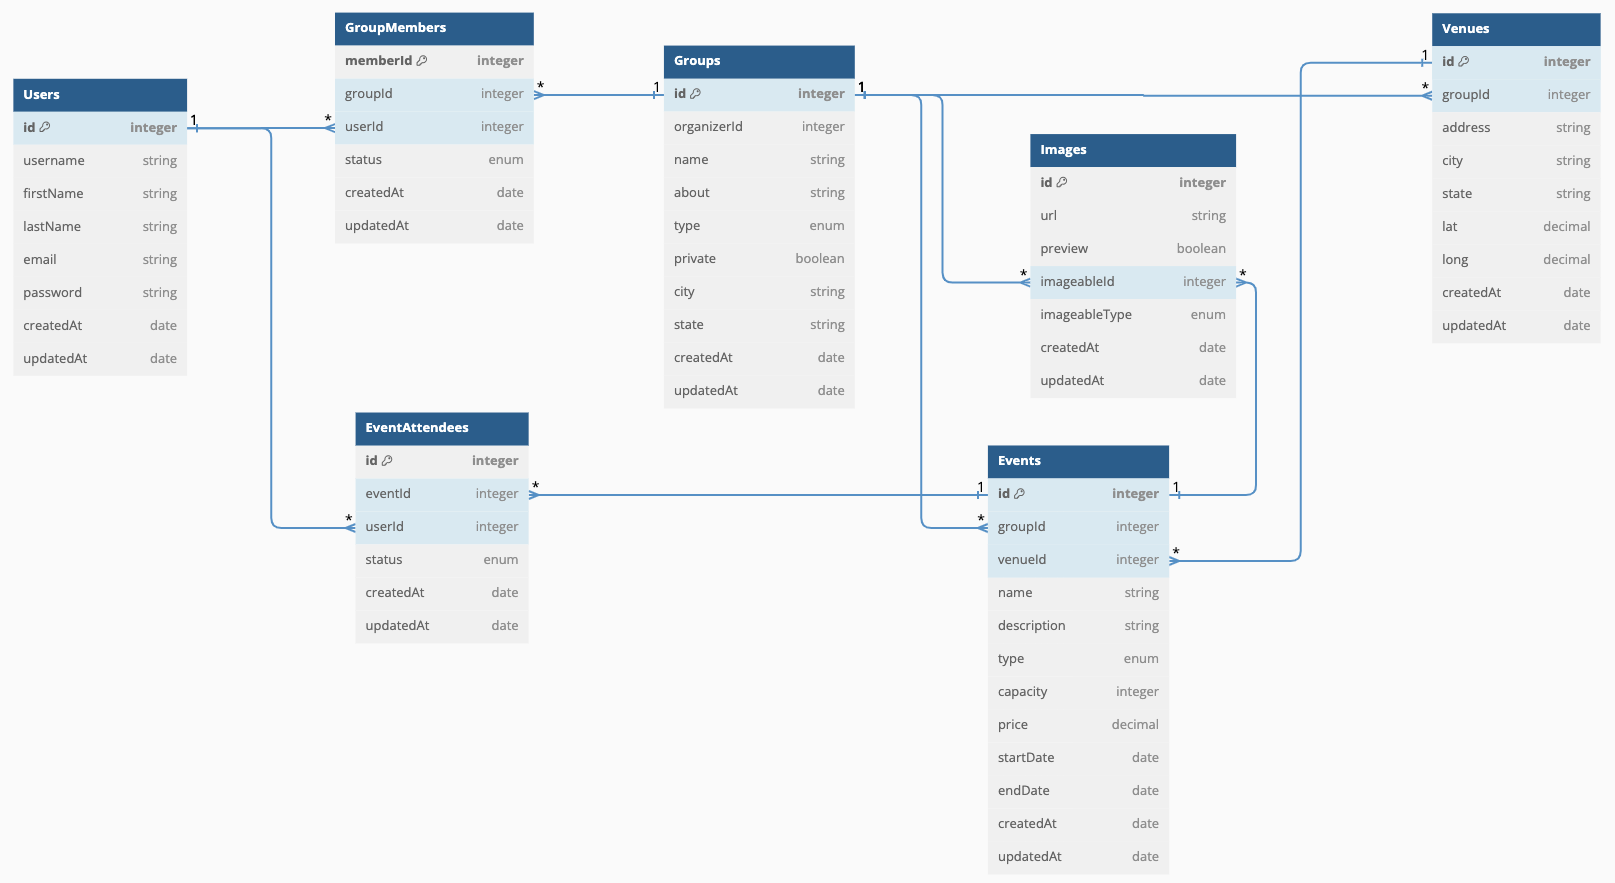
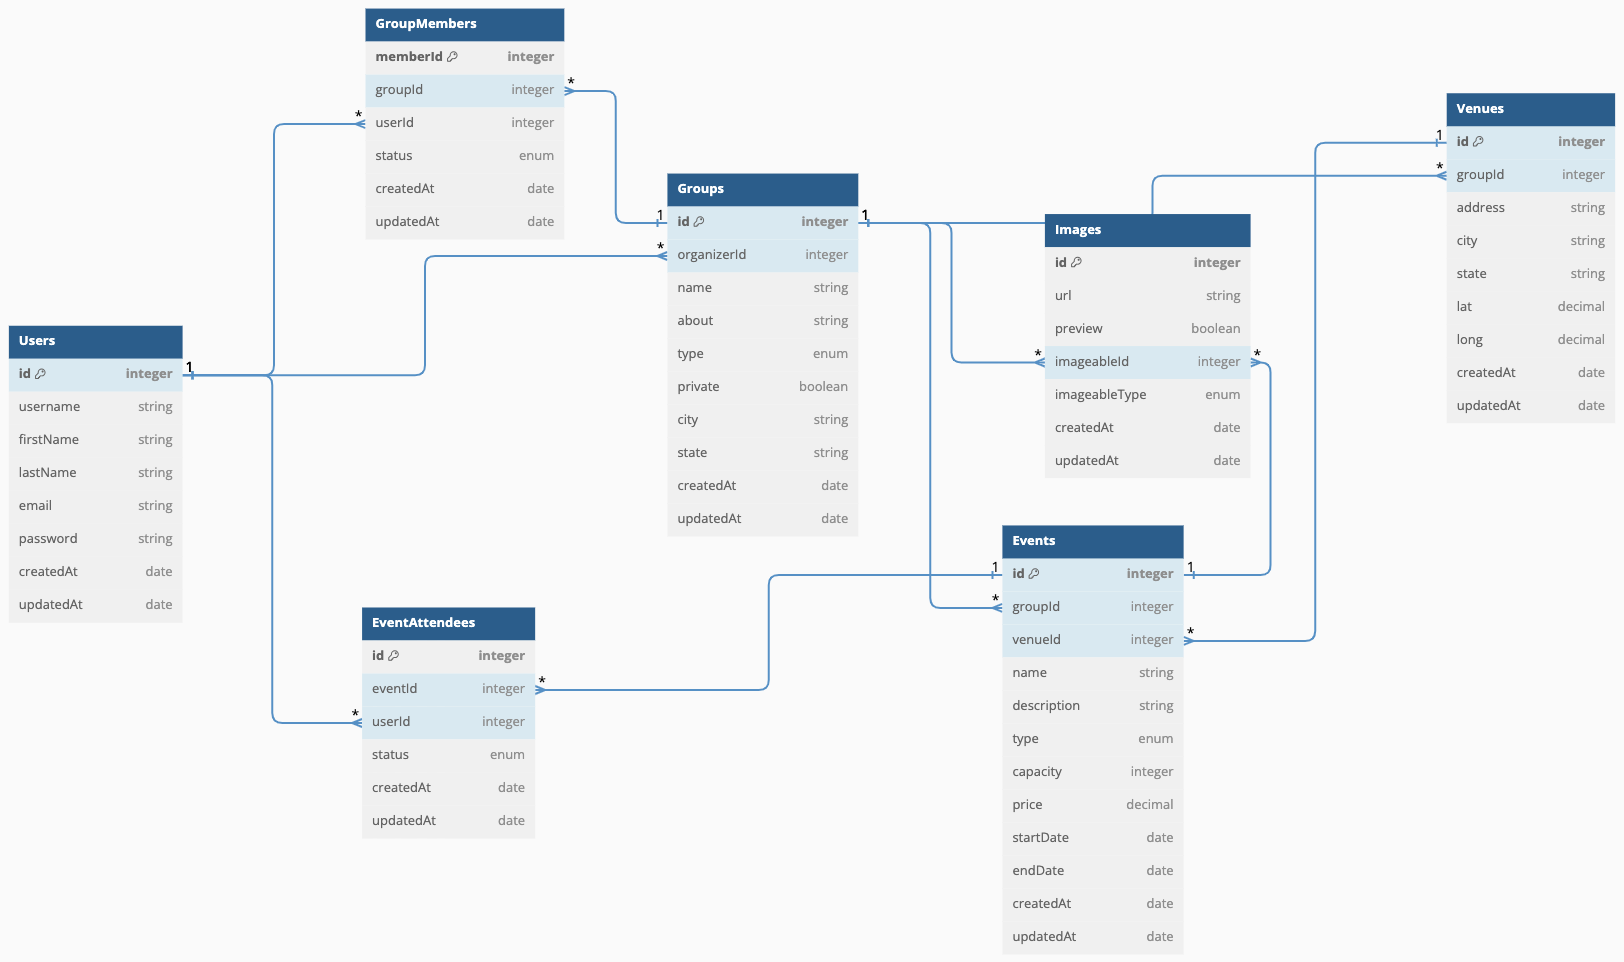
Redid migrations and models to solve unexpected  in Groups .findAll() query, Changed database diagram to include organizerId's relationship with the Users table

diff --git a/backend/routes/api/login.js b/backend/routes/api/login.js
@@ -17,7 +17,7 @@ const validateLogin = [
     .withMessage('Please provide a valid email or username.'),
   check('password')
     .exists({ checkFalsy: true })
-    .withMessage('Please provide a password'),
+    .withMessage('Password is required'),
   handleValidationErrors
 ];
 
@@ -49,10 +49,13 @@ router.post('/', validateLogin, async (req, res, next) => {
   });
 
   if (!user || !bcrypt.compareSync(password, user.hashedPassword.toString())) {
-    const err = new Error('Login failed');
-    err.status = 401;
-    err.title = 'Login failed';
-    err.errors = { credential: 'The provided credentials were invalid.' };
+    res.status(401).json({
+      message: "Invalid credentials"
+    })
+    // const err = new Error('Login failed');
+    // err.status = 401;
+    // err.title = 'Login failed';
+    // err.errors = { credential: 'The provided credentials were invalid.' };
     return next(err);
   }
 

diff --git a/backend/db/migrations/20230811041834-create-group-member.js b/backend/db/migrations/20230811041834-create-group-member.js
@@ -10,7 +10,7 @@ if (process.env.NODE_ENV === 'production') {
 module.exports = {
   async up(queryInterface, Sequelize) {
     await queryInterface.createTable('GroupMembers', {
-      memberId: {
+      id: {
         allowNull: false,
         autoIncrement: true,
         primaryKey: true,
@@ -18,11 +18,13 @@ module.exports = {
       },
       groupId: {
         type: Sequelize.INTEGER,
-        allowNull: false
+        allowNull: false,
+        references: { model: 'Groups' }
       },
       userId: {
         type: Sequelize.INTEGER,
-        allowNull: false
+        allowNull: false,
+        references: { model: 'Users' }
       },
       status: {
         type: Sequelize.ENUM('co-host', 'member', 'pending'),

diff --git a/backend/routes/api/groups.js b/backend/routes/api/groups.js
@@ -1,0 +1,23 @@
+// External
+const express = require('express');
+const { check } = require('express-validator');
+
+// Internal
+const { setTokenCookie, requireAuth } = require('../../utils/auth');
+const { handleValidationErrors } = require('../../utils/validation');
+
+const { User } = require('../../db/models');
+const { Group } = require('../../db/models');
+
+const router = express.Router();
+
+// Get the Current User
+router.get('/', async (req, res) => {
+
+  const allGroups = await Group.findAll();
+  return res.json(allGroups);
+});
+
+
+
+module.exports = router;

diff --git a/backend/routes/api/index.js b/backend/routes/api/index.js
@@ -1,6 +1,7 @@
 const router = require('express').Router();
 const loginRouter = require('./login.js');
 const usersRouter = require('./users.js');
+const groupsRouter = require('./groups.js');
 
 const { User } = require('../../db/models');
 const { setTokenCookie, restoreUser, requireAuth } = require('../../utils/auth.js');
@@ -14,6 +15,7 @@ router.use(restoreUser);
 
 router.use('/login', loginRouter);
 router.use('/users', usersRouter);
+router.use('/groups', groupsRouter);
 
 
 // Add a XSRF-TOKEN cookie

diff --git a/backend/routes/api/users.js b/backend/routes/api/users.js
@@ -31,6 +31,21 @@ const validateSignup = [
 
 const router = express.Router();
 
+// Get the Current User
+router.get('/me', requireAuth, async (req, res) => {
+
+  const { user } = req;
+  console.log(user);
+  if (user) {
+    const safeUser = user.toSafe();
+    return res.json({
+      user: safeUser
+    });
+  } else return res.json({ user: null });
+
+});
+
+
 // Sign up
 router.post('/', validateSignup, async (req, res) => {
   const { email, password, username } = req.body;

diff --git a/backend/db/migrations/20230811041648-create-group.js b/backend/db/migrations/20230811041648-create-group.js
@@ -1,6 +1,6 @@
 'use strict';
 
-/** @type {import('sequelize-cli').Migration} */
+// /** @type {import('sequelize-cli').Migration} */
 
 let options = {};
 if (process.env.NODE_ENV === 'production') {
@@ -18,7 +18,8 @@ module.exports = {
       },
       organizerId: {
         type: Sequelize.INTEGER,
-        allowNull: false
+        allowNull: false,
+        references: { model: 'Users', key: 'id'}
       },
       name: {
         type: Sequelize.STRING(60),

diff --git a/backend/db/migrations/20230811041721-create-event-attendee.js b/backend/db/migrations/20230811041721-create-event-attendee.js
@@ -18,11 +18,13 @@ module.exports = {
       },
       eventId: {
         type: Sequelize.INTEGER,
-        allowNull: false
+        allowNull: false,
+        references: { model: 'Events' }
       },
       userId: {
         type: Sequelize.INTEGER,
-        allowNull: false
+        allowNull: false,
+        references: { model: 'Users' }
       },
       status: {
         type: Sequelize.ENUM('attending', 'waitlist', 'pending'),

diff --git a/backend/db/migrations/20230811041709-create-event.js b/backend/db/migrations/20230811041709-create-event.js
@@ -18,10 +18,12 @@ module.exports = {
       },
       groupId: {
         type: Sequelize.INTEGER,
-        allowNull: false
+        allowNull: false,
+        references: { model: 'Groups' }
       },
       venueId: {
         type: Sequelize.INTEGER,
+        references: { model: 'Venues' }
       },
       name: {
         type: Sequelize.STRING(255),

diff --git a/backend/utils/auth.js b/backend/utils/auth.js
@@ -63,7 +63,7 @@ const requireAuth = function (req, _res, next) {
 
   const err = new Error('Authentication required');
   err.title = 'Authentication required';
-  err.errors = { message: 'Authentication required' };
+  // err.errors = { message: 'Authentication required' };
   err.status = 401;
   return next(err);
 }

diff --git a/backend/app.js b/backend/app.js
@@ -77,7 +77,7 @@ app.use((err, _req, res, _next) => {
   res.status(err.status || 500);
   console.error(err);
   res.json({
-    title: err.title || 'Server Error',
+    // title: err.title || 'Server Error',
     message: err.message,
     errors: err.errors,
     stack: isProduction ? null : err.stack

diff --git a/backend/db/migrations/20230811041704-create-venue.js b/backend/db/migrations/20230811041704-create-venue.js
@@ -19,7 +19,8 @@ module.exports = {
       },
       groupId: {
         type: Sequelize.INTEGER,
-        allowNull: false
+        allowNull: false,
+        references: { model: 'Groups' }
       },
       address: {
         type: Sequelize.STRING(255),

diff --git a/backend/db/models/groupmember.js b/backend/db/models/groupmember.js
@@ -14,7 +14,7 @@ module.exports = (sequelize, DataTypes) => {
     }
   }
   GroupMember.init({
-    memberId: {
+    id: {
       type: DataTypes.INTEGER,
       allowNull: false,
       primaryKey: true,
